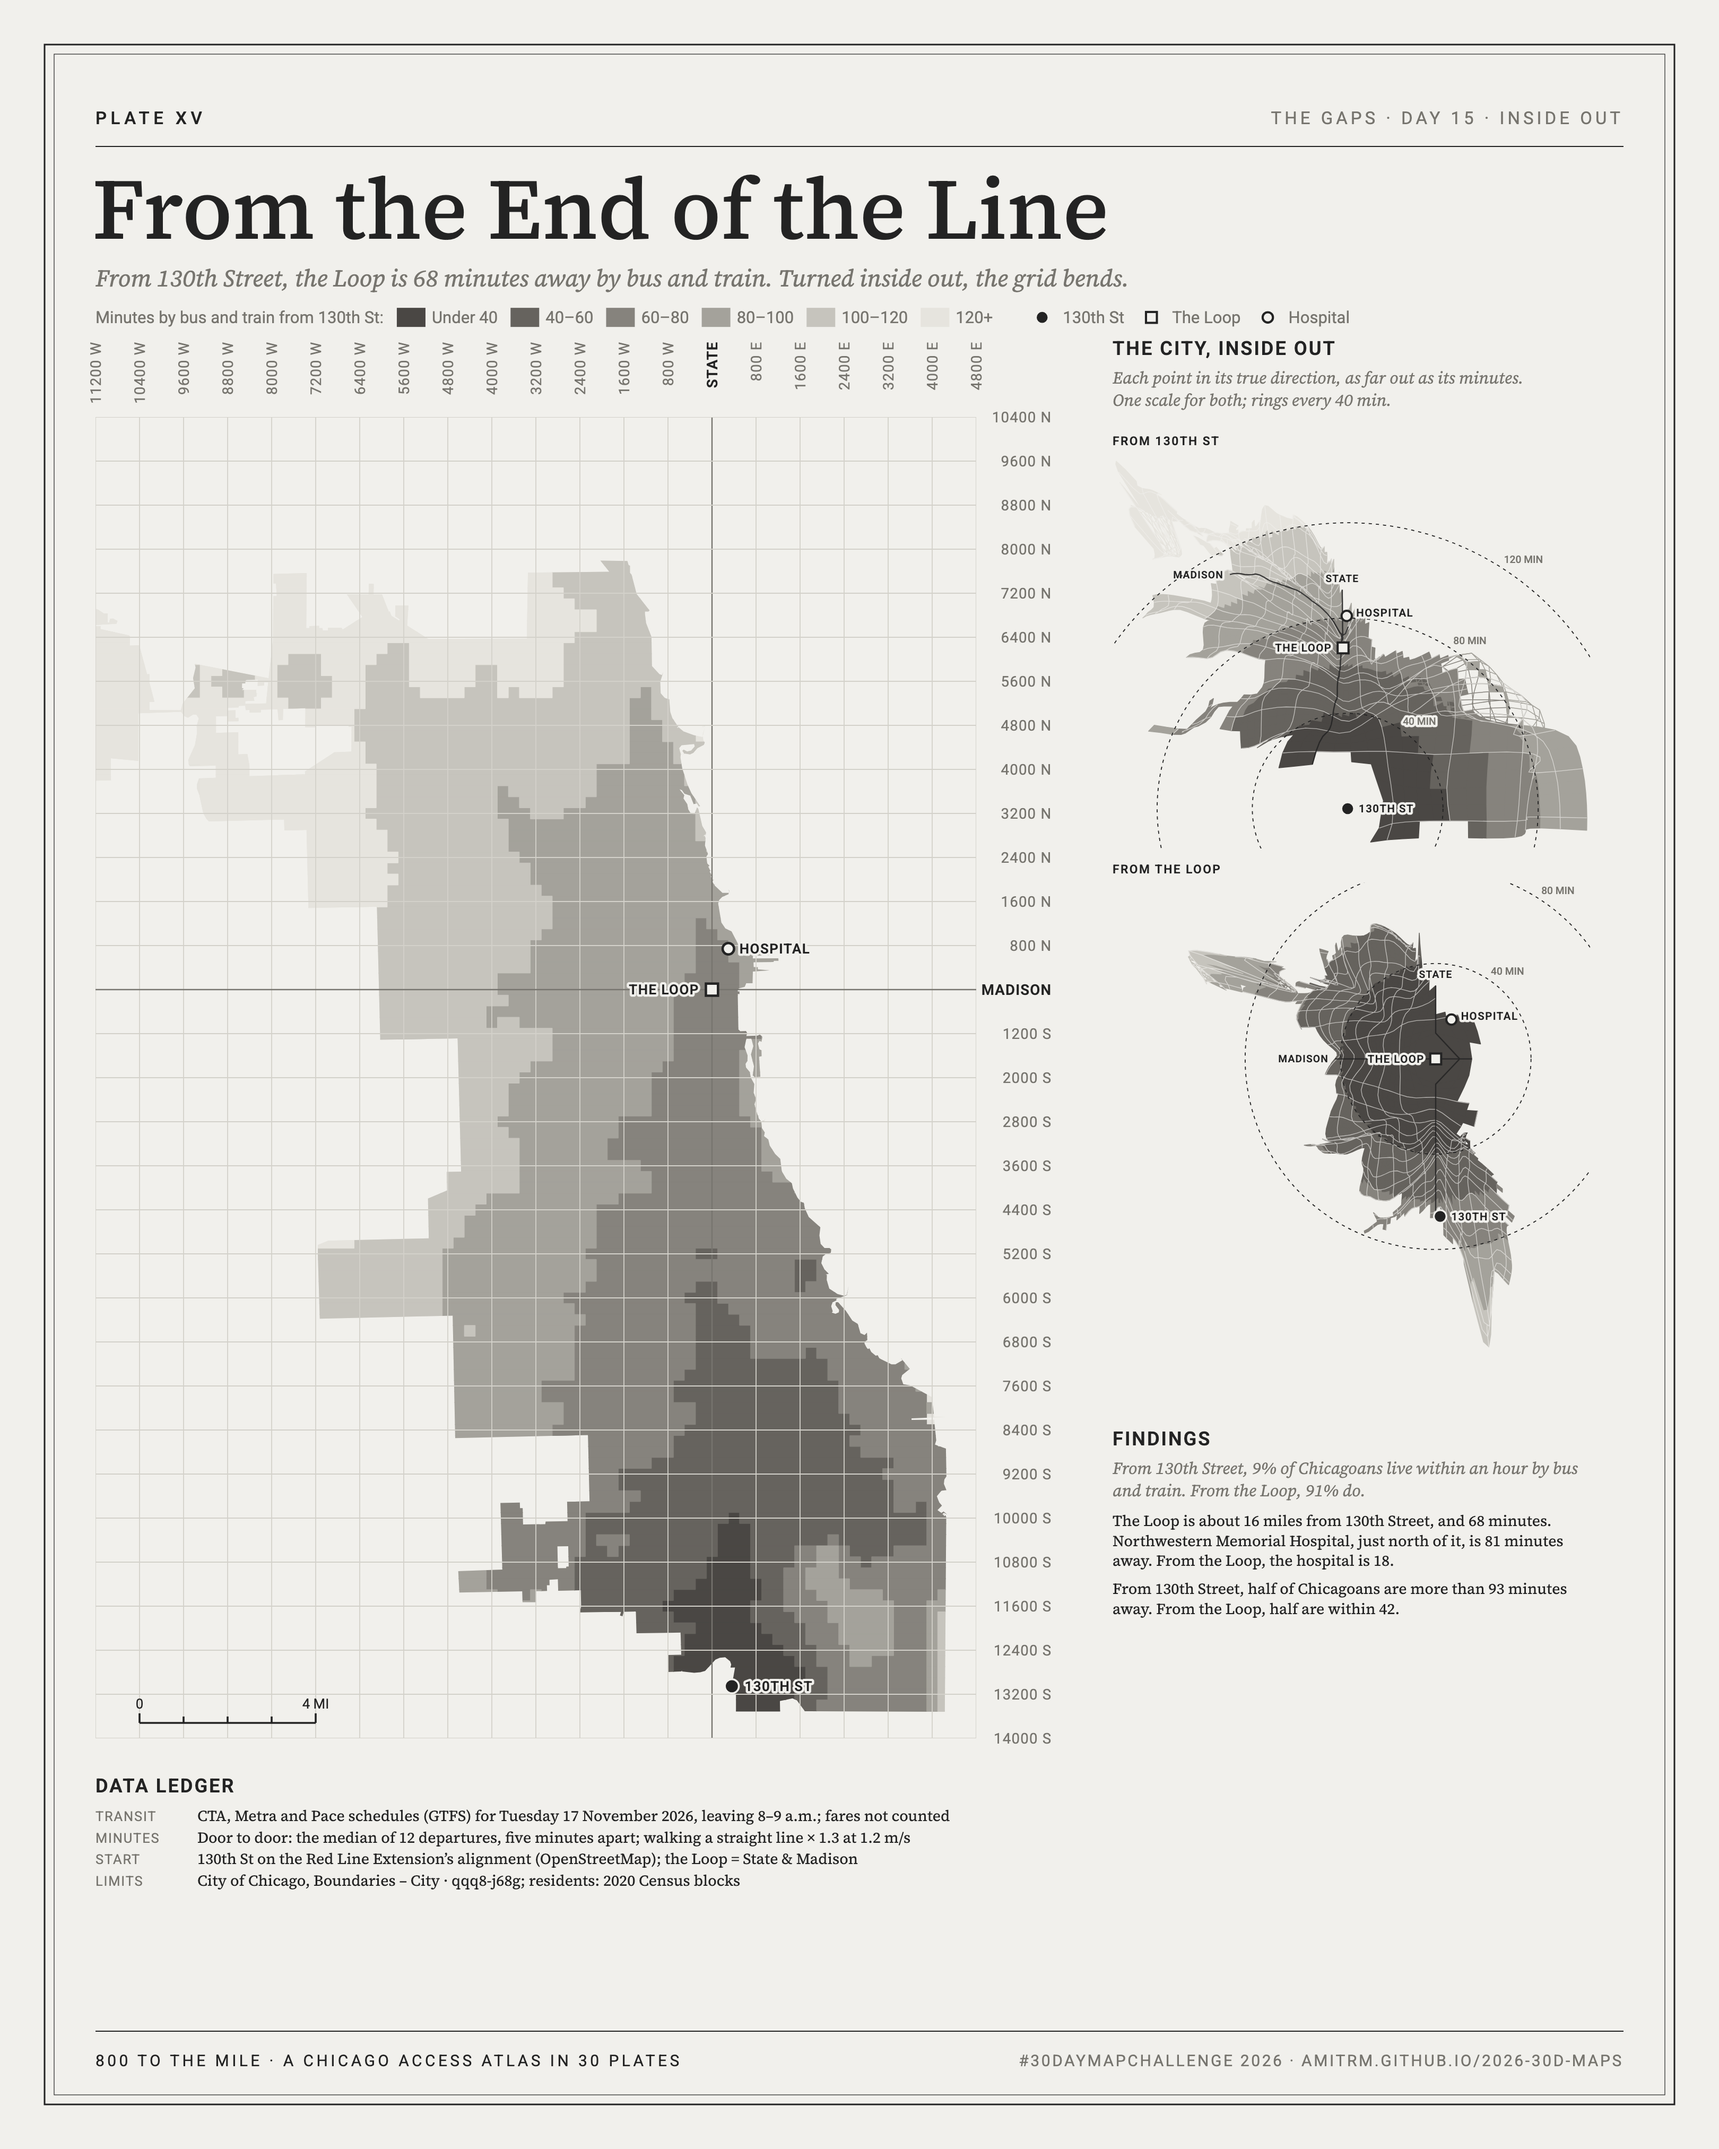
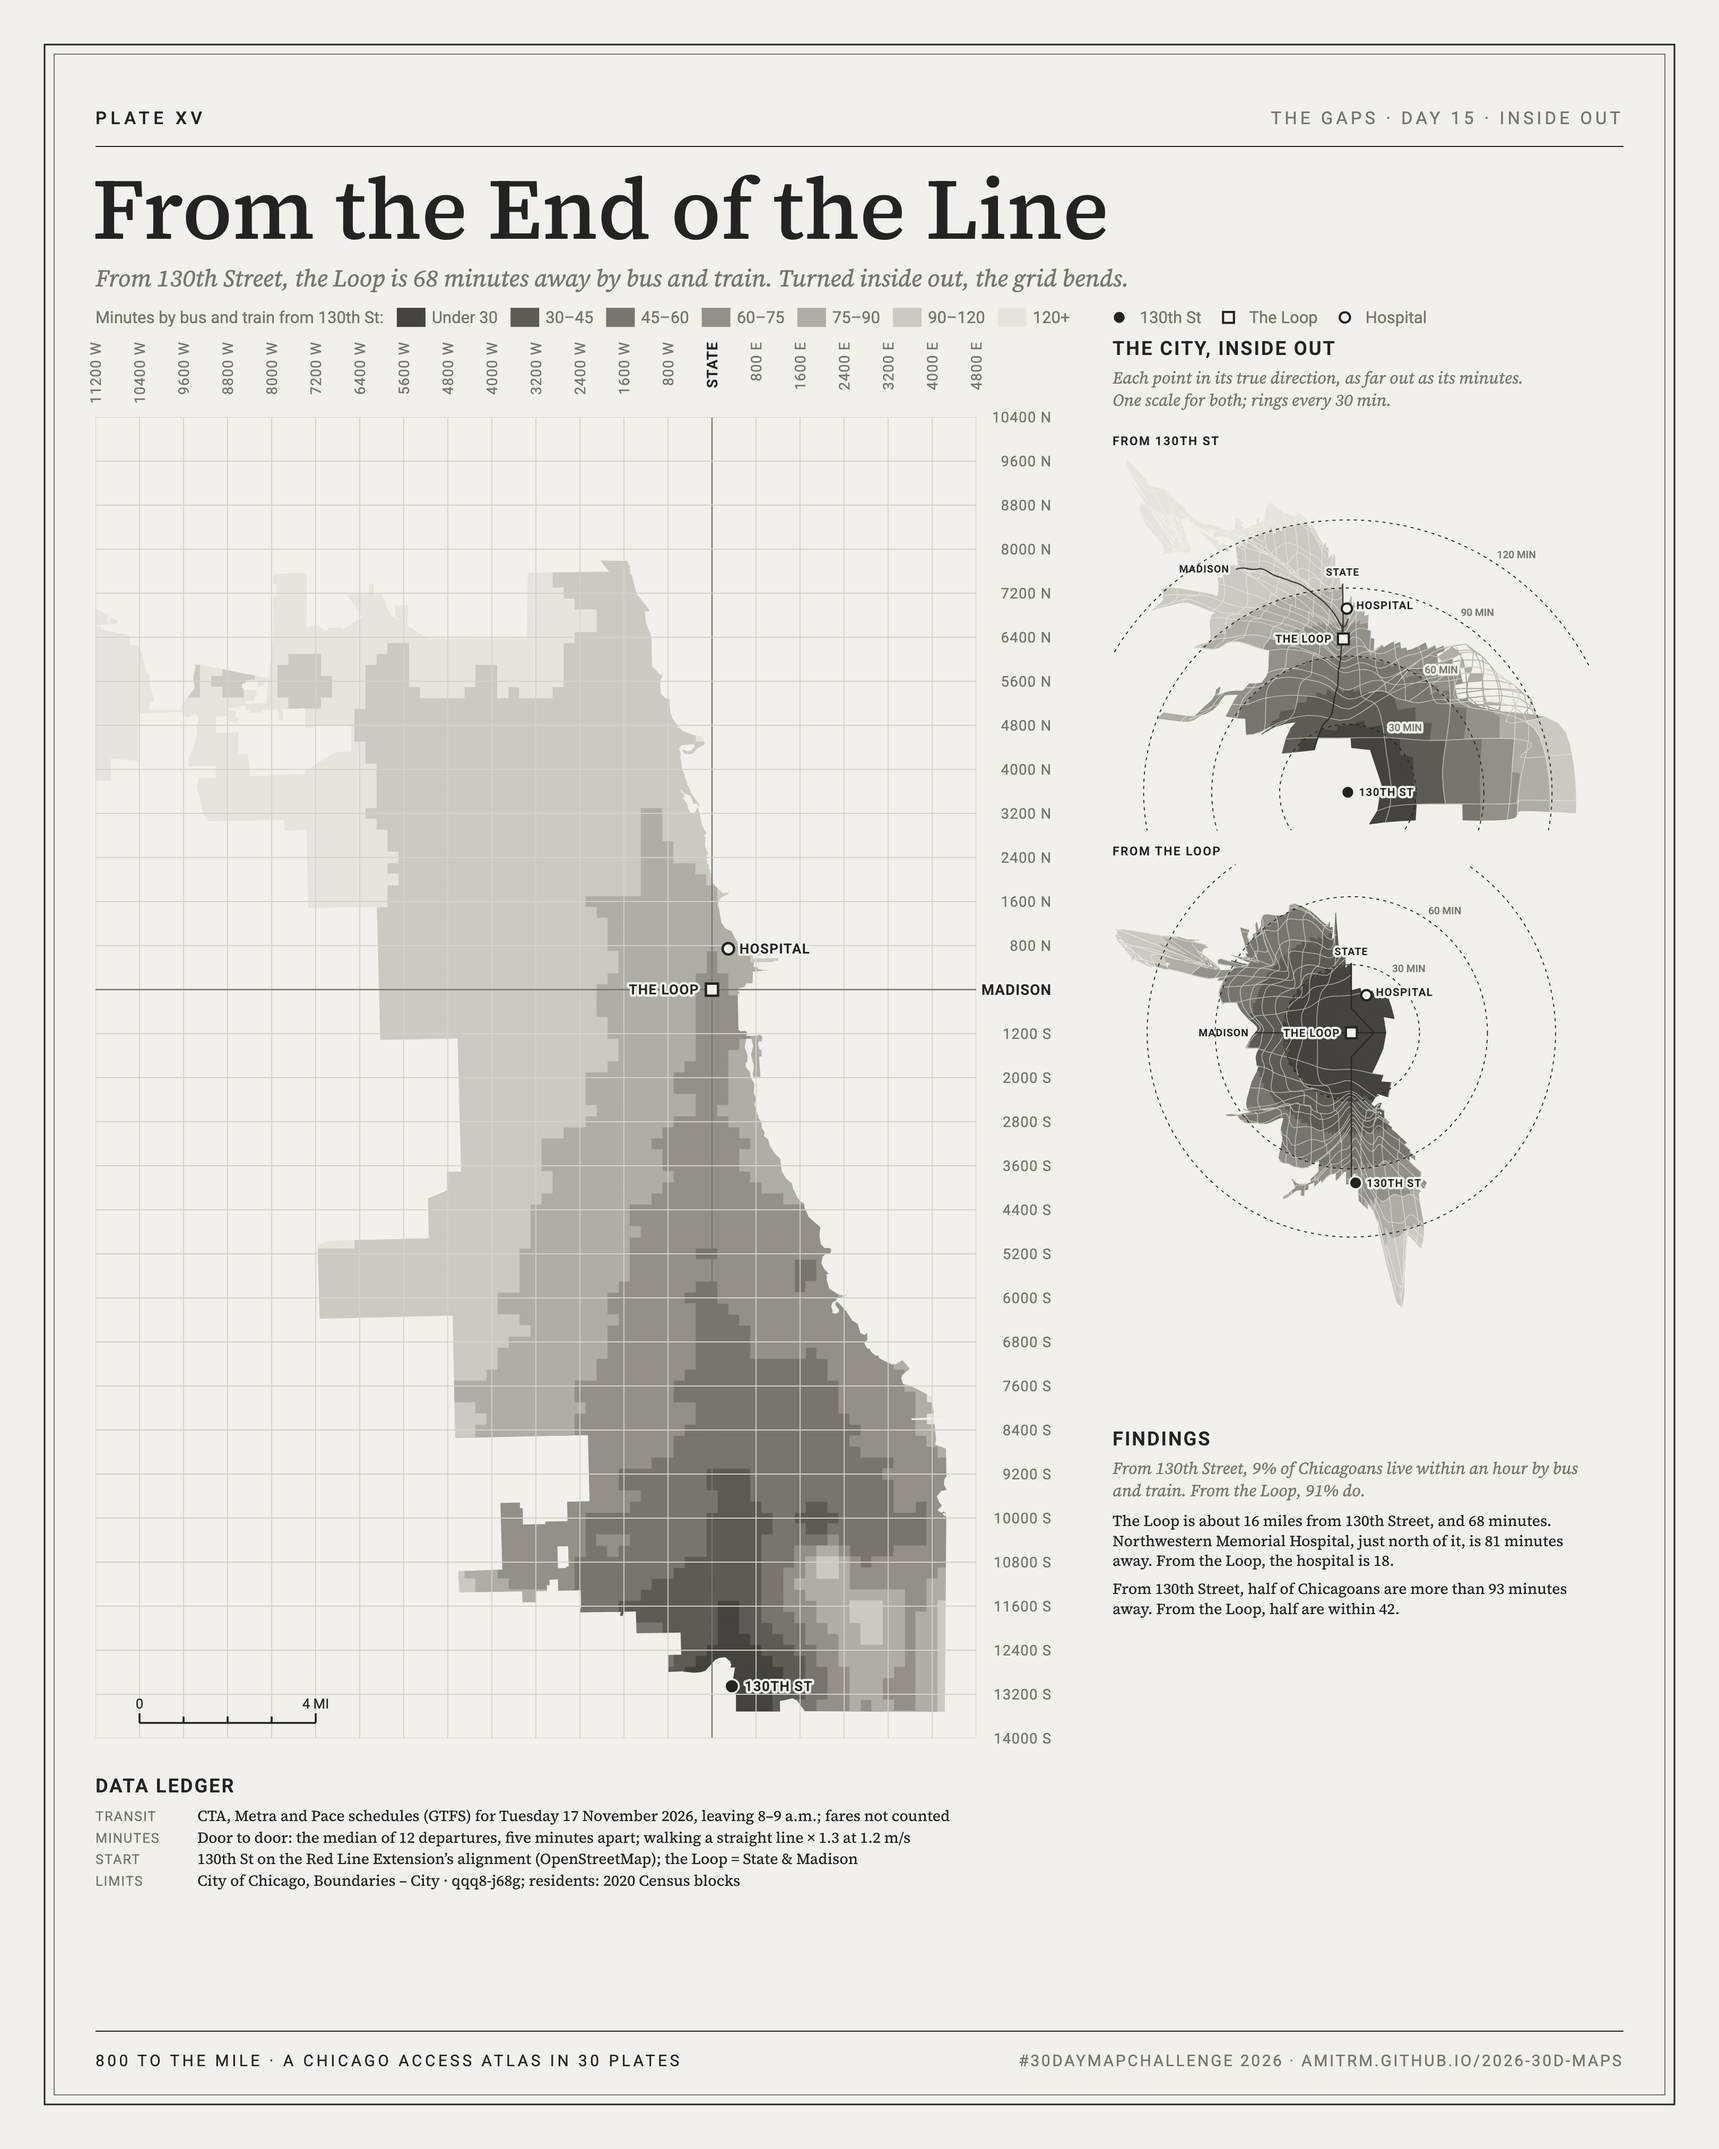
Day 15: Magenta colour mode, seven classes split at the hour, ruler tooltips
Colour mode uses the Magenta palette, dark (near) to light (far); seven classes split at the hour (under 30, 30-45, 45-60 | 60-75, 75-90, 90-120, 120+) and rings every 30 minutes. The Loop drawing is centred on the Loop. Series: a minutes-ruler tooltip (data-kind=ruler; the drawing's svg carries data-ruler). Hovering a block outlines it on the map and in both inside-out drawings.

diff --git a/src/plates/day15.js b/src/plates/day15.js
@@ -13,14 +13,16 @@ import { gridLines, formatAddress, toMiles } from '../lib/grid.js';
 // data.loop (smoothed minutes on the quarter-mile lattice for the two drawings), data.cells (half-mile
 // hover squares with unsmoothed minutes from each start).
 
-export const BREAKS = [40, 60, 80, 100, 120];
-// near -> far. Colour: CARTO Teal, its last step lightened; grayscale: about 12 L* apart
+// Seven classes split at the hour: three within it, four beyond (as the notebook's data.classes).
+export const BREAKS = [30, 45, 60, 75, 90, 120];
+// near -> far, dark to light in both modes. Colour: the Magenta palette, deep plum to pale pink;
+// grayscale: about 10 L* apart
 export const RAMP = {
-  color: ['#2A5674', '#3B738F', '#5A9CB0', '#85C4C9', '#B3DFDB', '#D9EFEB'],
-  gray: ['#4A4744', '#66635E', '#86837D', '#A4A29B', '#C6C4BD', '#E6E4DE'],
+  color: ['#632664', '#863B7A', '#A5538B', '#BD6E9B', '#D18CAB', '#E0ACBD', '#EDCCD3'],
+  gray: ['#45423F', '#5E5B57', '#78756F', '#939089', '#AFADA6', '#CBC9C2', '#E6E4DE'],
 };
-export const CLASS_LABELS = ['Under 40', '40–60', '60–80', '80–100', '100–120', '120 or more'];
-const SHORT = ['Under 40', '40–60', '60–80', '80–100', '100–120', '120+'];
+export const CLASS_LABELS = ['Under 30', '30–45', '45–60', '60–75', '75–90', '90–120', '120 or more'];
+const SHORT = ['Under 30', '30–45', '45–60', '60–75', '75–90', '90–120', '120+'];
 const clsOf = (v) => BREAKS.filter((b) => v >= b).length;
 
 export function renderDay15(data, { mode = 'gray', variant = 'plate' } = {}) {
@@ -52,16 +54,18 @@ export function renderDay15(data, { mode = 'gray', variant = 'plate' } = {}) {
   };
   const label = (x, y, str, size, anchor = 'start') => text(r1(x), r1(y + size * 0.35), str, { size, weight: 600, spacing: 0.5, anchor, halo: C.paper });
 
-  // hover squares: a 14% ink tint, and a ring at the square's centre wherever it is picked
   // (one class for every drawing: the rules are the same, so the page's copies agree)
-  const hoverCss = `<style>.d15c path{fill:${C.ink};fill-opacity:0}.d15c:hover path,.d15c.pick path{fill-opacity:.14}.d15c circle{display:none}.d15c.pick circle{display:inline}</style>`;
-  const cellAttrs = (c, fill) => {
+  // the hovered (picked) square is outlined in ink with a paper glow, wherever it appears (asked by the user)
+  const hoverCss = `<style>.d15c path{fill:transparent;stroke:none}.d15c:hover path,.d15c.pick path{stroke:${C.ink};stroke-width:1.5;stroke-linejoin:miter;filter:drop-shadow(0 0 1px ${C.paper}) drop-shadow(0 0 1px ${C.paper})}</style>`;
+  // tooltip: the page's minutes ruler (data-kind=ruler): this square's two minutes; the ruler itself
+  // (the classes from 0 to 150 minutes, in this mode's shades) is set once on the drawing's svg
+  const cellAttrs = (c) => {
     const [x, y, a, b] = c;
-    const name = place(x, y);
     const crow = Math.hypot(x - P.start[0], y - P.start[1]);
-    // the tooltip's name falls back on data-tip; a tile's size and frac default to 1 and 0
-    return `class="d15c" data-kind="area" data-id="q${x}_${y}" data-tip="${esc(name)}" data-shape="tile" data-fill="${fill}" data-detail="${a} min from 130th St|${b} min from the Loop|${crow.toFixed(1)} mi from 130th St, straight line"`;
+    return `class="d15c" data-kind="ruler" data-id="q${x}_${y}" data-tip="${esc(place(x, y))}" data-aside="${Math.round(crow)} mi" data-vals="${a} ${b}"`;
   };
+  const edges = [0, ...BREAKS, RULER_MAX];
+  const rulerAttr = `data-ruler='${JSON.stringify({ max: RULER_MAX, segs: ramp.map((c, i) => [edges[i], edges[i + 1], c]), ticks: [60, 120], foot: ['from 130th St', 'from the Loop', 'minutes'] })}' `;
 
   if (isPlate) out.push(frame({
     plate: 'XV',
@@ -118,7 +122,7 @@ export function renderDay15(data, { mode = 'gray', variant = 'plate' } = {}) {
       const q = k * 0.5;
       for (const c of data.cells) {
         const cx = Xm(c[0]), cy = Ym(c[1]);
-        out.push(`<g ${cellAttrs(c, ramp[clsOf(c[2])])}><path d="M${r1(cx - q / 2)},${r1(cy - q / 2)}h${r1(q)}v${r1(q)}h${r1(-q)}Z"/><circle cx="${r1(cx)}" cy="${r1(cy)}" r="5.5" fill="none" stroke="${C.ink}" stroke-width="1.6"/></g>`);
+        out.push(`<g ${cellAttrs(c)}><path d="M${r1(cx - q / 2)},${r1(cy - q / 2)}h${r1(q)}v${r1(q)}h${r1(-q)}Z"/></g>`);
       }
     }
     out.push('</g>');
@@ -173,13 +177,13 @@ export function renderDay15(data, { mode = 'gray', variant = 'plate' } = {}) {
 
   if (isMap) {
     return svg(out.join(''), { label: mapLabel(s), viewBox: `60 184 ${Math.ceil(colX + 4 - 60)} 1114`, align: 'xMinYMin meet' })
-      .replace('<svg ', `<svg data-top="${labelTop - 184}" data-bottom="${fy1 - 184}" data-ftop="${+(fy0 - 184).toFixed(2)}" data-ppm="${+k.toFixed(3)}" `);
+      .replace('<svg ', `<svg ${rulerAttr}data-top="${labelTop - 184}" data-bottom="${fy1 - 184}" data-ftop="${+(fy0 - 184).toFixed(2)}" data-ppm="${+k.toFixed(3)}" `);
   }
 
   // ---------- the city inside out: two drawings at one scale ----------
   const DR = {
-    start: { grid: data.start, o: P.start, rings: [40, 80, 120], head: 'FROM 130TH ST', marks: { start: 0, loop: s.startToLoop, hosp: s.startToHosp } },
-    loop: { grid: data.loop, o: P.loop, rings: [40, 80], head: 'FROM THE LOOP', marks: { start: s.loopToStart, loop: 0, hosp: s.loopToHosp } },
+    start: { grid: data.start, o: P.start, rings: [30, 60, 90, 120], head: 'FROM 130TH ST', marks: { start: 0, loop: s.startToLoop, hosp: s.startToHosp } },
+    loop: { grid: data.loop, o: P.loop, rings: [30, 60, 90], head: 'FROM THE LOOP', marks: { start: s.loopToStart, loop: 0, hosp: s.loopToHosp } },
   };
   // positions in minutes, relative to the start: true bearing, minutes as distance
   const polar = (o, x, y, m) => { const a = Math.atan2(y - o[1], x - o[0]); return [m * Math.cos(a), m * Math.sin(a)]; };
@@ -239,10 +243,8 @@ export function renderDay15(data, { mode = 'gray', variant = 'plate' } = {}) {
       const h = 0.25;
       for (const c of data.cells) {
         const corners = [[c[0] - h, c[1] - h], [c[0] + h, c[1] - h], [c[0] + h, c[1] + h], [c[0] - h, c[1] + h]].map(([x, y]) => dr.at(row(y), col(x)));
-        const mid = dr.at(row(c[1]), col(c[0]));
-        if (corners.some((p) => !p) || !mid) continue;
-        const v = dr === DR.start ? c[2] : c[3];
-        o.push(`<g ${cellAttrs(c, ramp[clsOf(v)])}><path d="M${corners.map((p) => `${r1(Xp(p[0]))},${r1(Yp(p[1]))}`).join('L')}Z"/><circle cx="${r1(Xp(mid[0]))}" cy="${r1(Yp(mid[1]))}" r="4.5" fill="none" stroke="${C.ink}" stroke-width="1.5"/></g>`);
+        if (corners.some((p) => !p)) continue;
+        o.push(`<g ${cellAttrs(c)}><path d="M${corners.map((p) => `${r1(Xp(p[0]))},${r1(Yp(p[1]))}`).join('L')}Z"/></g>`);
       }
     }
     o.push('</g>');
@@ -259,7 +261,9 @@ export function renderDay15(data, { mode = 'gray', variant = 'plate' } = {}) {
   const middle = (x0, top, w, hMax, size) => {
     const head = size * 2.1, gap = size * 1.6;
     const A = DR.start.box, B = DR.loop.box;
-    const kw = (w - 4) / Math.max(A.x1 - A.x0, B.x1 - B.x0);
+    // 130th St's drawing is centred on its own extent; the Loop's on the Loop, so its rings sit in the
+    // middle of the column
+    const kw = (w - 4) / Math.max(A.x1 - A.x0, 2 * Math.max(-B.x0, B.x1));
     const kh = (hMax - 2 * head - gap) / (A.y1 - A.y0 + B.y1 - B.y0);
     const kk = Math.min(kw, kh);
     const parts = [];
@@ -271,7 +275,7 @@ export function renderDay15(data, { mode = 'gray', variant = 'plate' } = {}) {
       const hgt = (b.y1 - b.y0) * kk;
       const clip = `${uid}-${name}`;
       parts.push(`<defs><clipPath id="${clip}"><rect x="${x0}" y="${r1(y - 4)}" width="${w}" height="${r1(hgt + 8)}"/></clipPath></defs>`);
-      const cx = x0 + w / 2 - ((b.x0 + b.x1) / 2) * kk;
+      const cx = name === 'loop' ? x0 + w / 2 : x0 + w / 2 - ((b.x0 + b.x1) / 2) * kk;
       parts.push(drawing(dr, kk, cx, y + b.y1 * kk, clip, size));
       y += hgt + gap;
     }
@@ -281,7 +285,7 @@ export function renderDay15(data, { mode = 'gray', variant = 'plate' } = {}) {
   if (isChart) {
     const cw = 390, size = 8 * T;
     const m = middle(0, 6, cw, 1400, size);
-    return svg(m.svg, { label: chartLabel(s), viewBox: `0 0 ${cw} ${Math.ceil(m.height + 12)}`, align: 'xMidYMin meet' });
+    return svg(m.svg, { label: chartLabel(s), viewBox: `0 0 ${cw} ${Math.ceil(m.height + 12)}`, align: 'xMidYMin meet' }).replace('<svg ', `<svg ${rulerAttr}`);
   }
 
   // ---------- plate: margin column with both drawings, then Findings ----------
@@ -329,8 +333,9 @@ export function renderDay15(data, { mode = 'gray', variant = 'plate' } = {}) {
 }
 
 const W_COL = 300;
+const RULER_MAX = 150; // minutes: the tooltip ruler's length (longer trips sit at its end)
 export const CHART_TITLE = 'The city, inside out';
-export const CHART_NOTE = 'Each point in its true direction, as far out as its minutes. One scale for both; rings every 40 min.';
+export const CHART_NOTE = 'Each point in its true direction, as far out as its minutes. One scale for both; rings every 30 min.';
 
 const pct = (v) => `${Math.round(v * 100)}%`;
 const MONTHS = ['January', 'February', 'March', 'April', 'May', 'June', 'July', 'August', 'September', 'October', 'November', 'December'];
